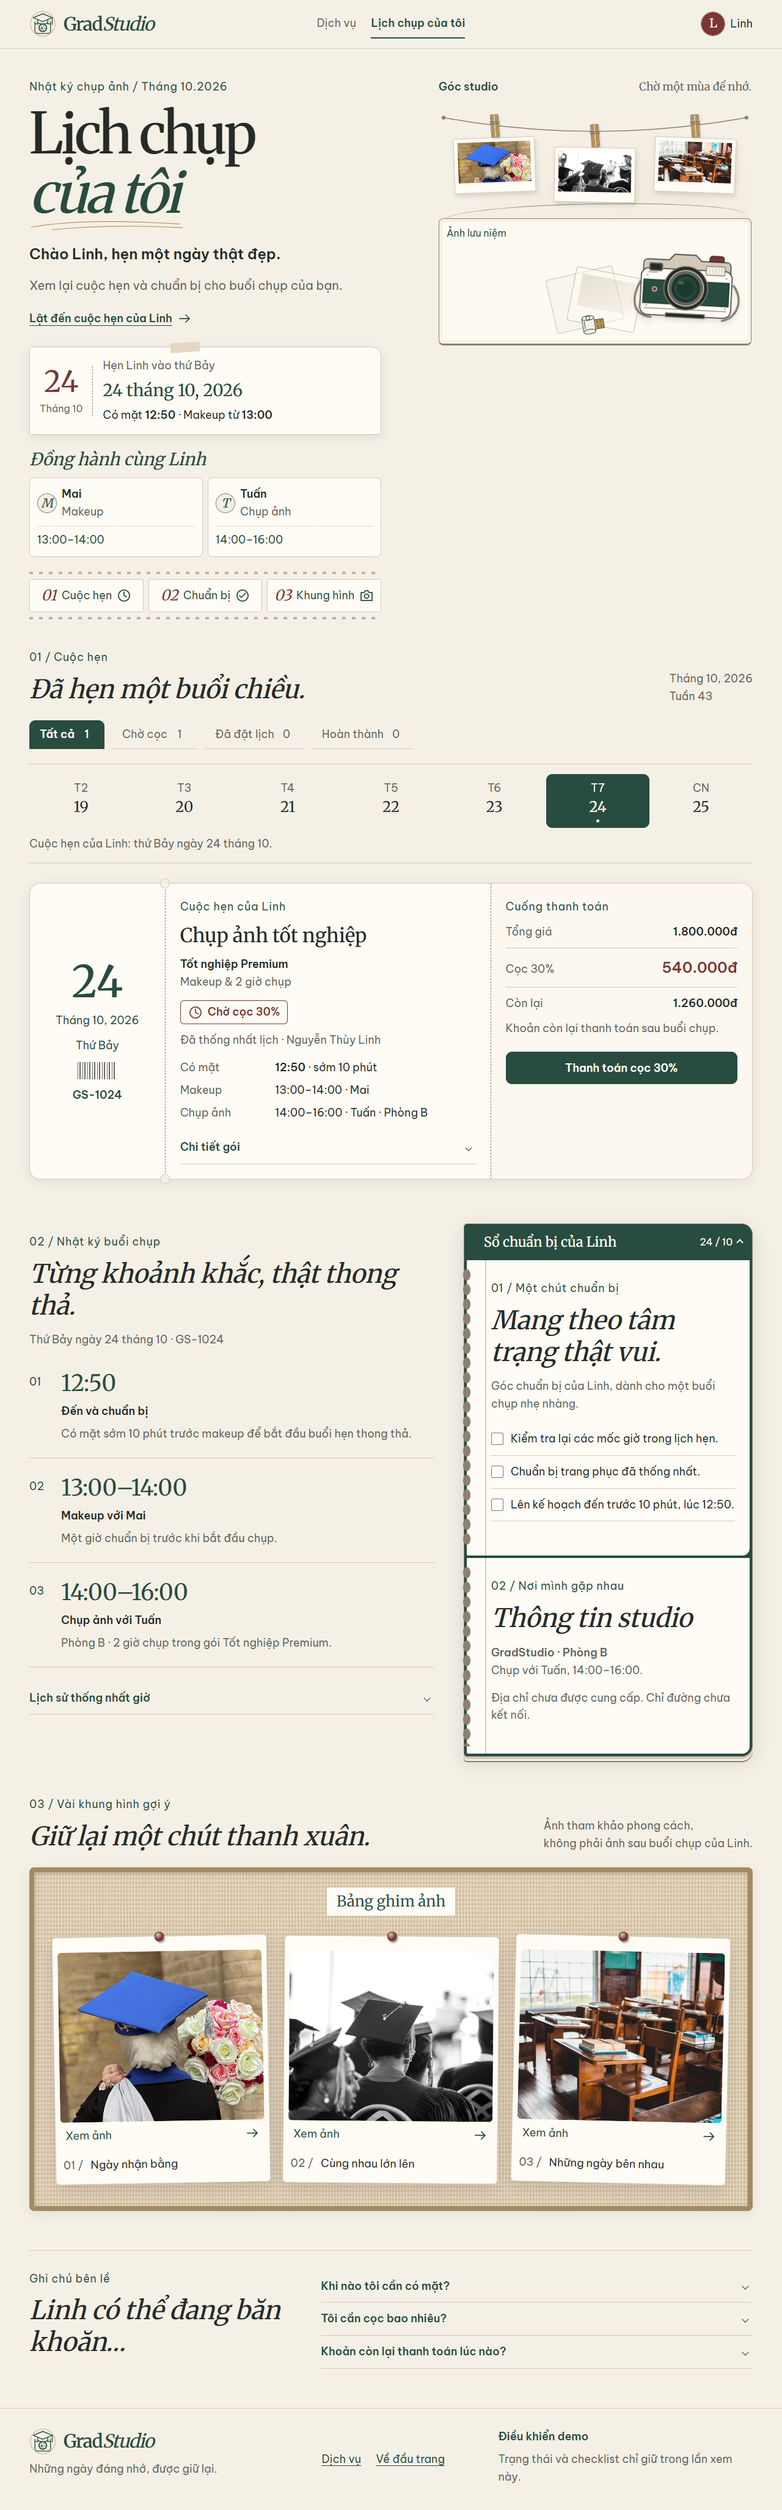
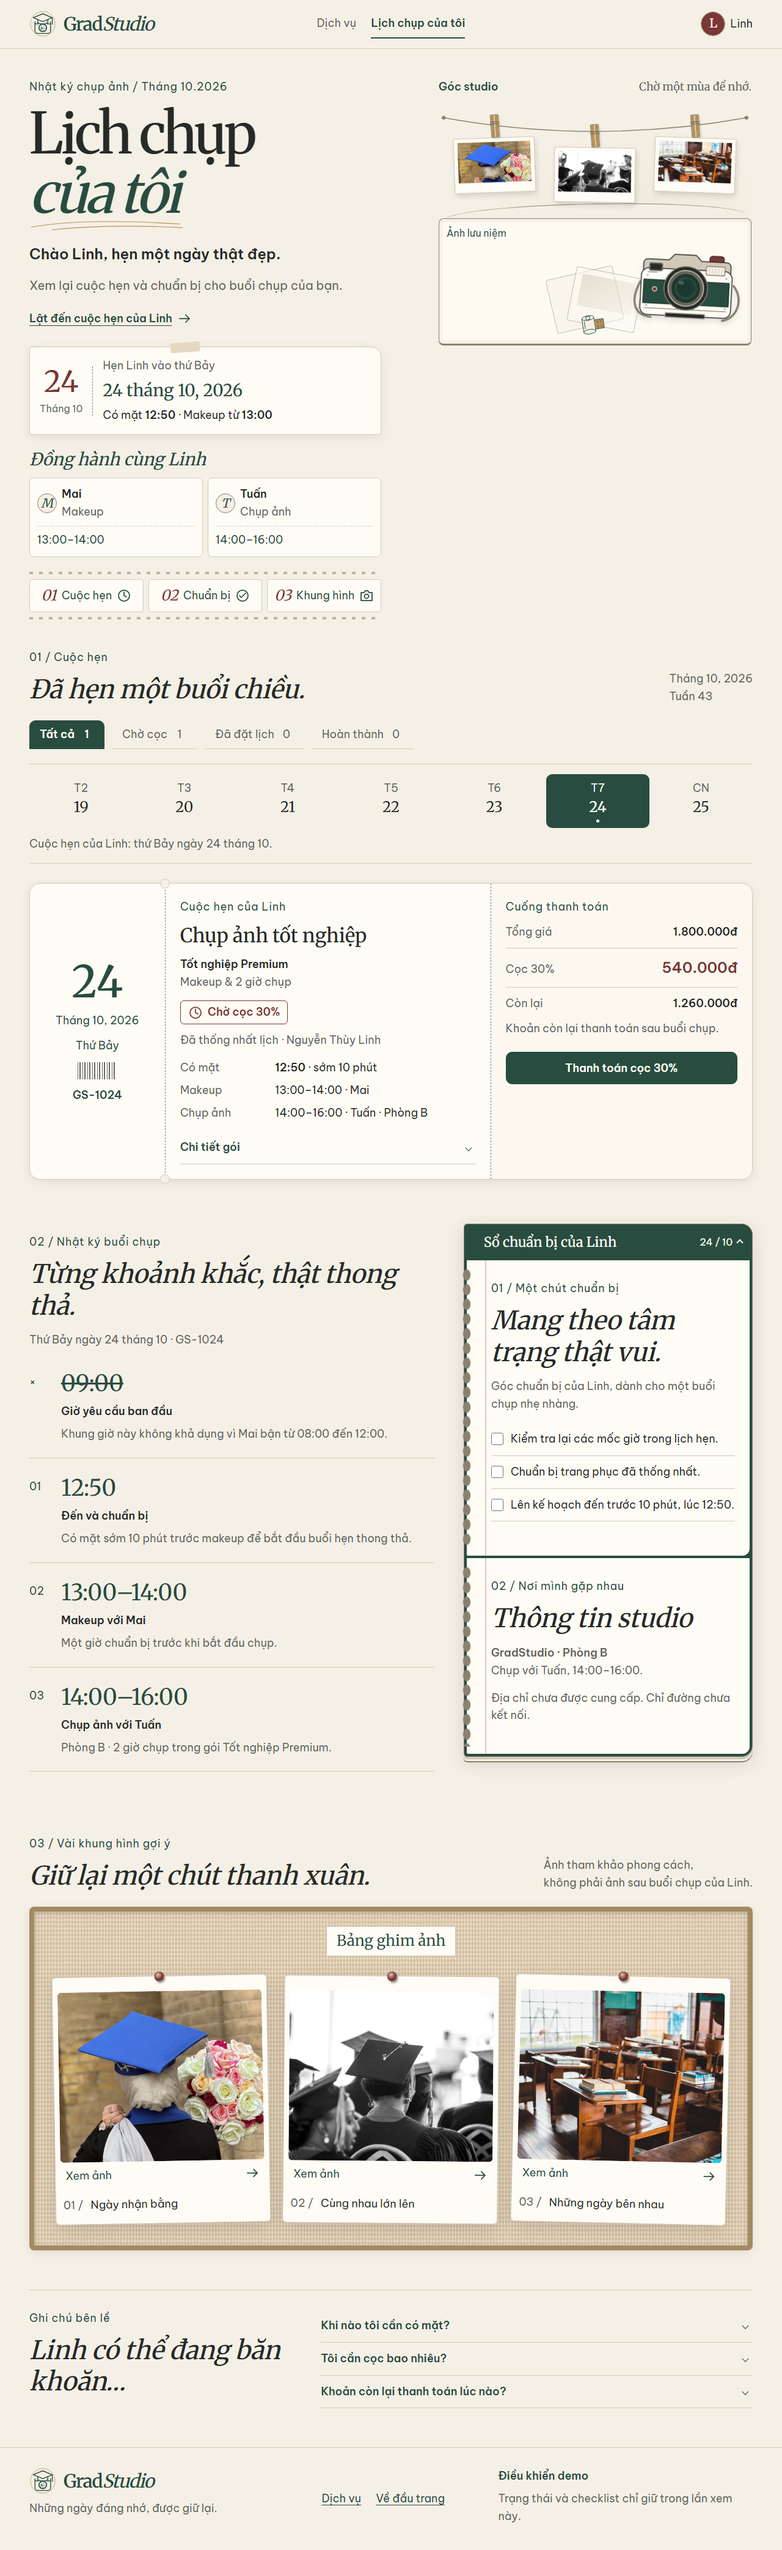
fix(pa02): prevent mobile chat overlap and clarify prices and booking timeline

diff --git a/css/services.css b/css/services.css
@@ -302,7 +302,6 @@
 .services-price { color: var(--color-brand); font-weight: 600; font-size: clamp(1.3rem, 1.1rem + 0.8vw, 1.65rem); }
 .services-price > span { font-weight: 400; font-size: 1rem; margin-inline-start: 3px; }
 .services-small-note { font-size: 1rem; color: var(--color-text-muted); line-height: 1.5; }
-.services-price-note { align-self: center; color: var(--color-text-muted); }
 .services-gallery-section { background: var(--services-soft-fill); padding-block: var(--space-7); border-block: 1px solid var(--color-border); }
 .services-gallery-heading { margin-block-end: 28px; }
 .services-gallery-section [hidden] { display: none; }
@@ -668,16 +667,11 @@
 .services-steps li { display: flex; gap: var(--space-3); align-items: start; }
 .services-steps li > span { font-family: var(--font-heading); color: var(--color-wine); }
 .services-chat-widget {
-  position: fixed;
-  inset-inline-end: max(var(--space-4), env(safe-area-inset-right));
-  inset-block-end: max(var(--space-4), env(safe-area-inset-bottom));
-  z-index: 10;
-  max-inline-size: calc(100% - var(--space-6));
+  margin: var(--space-5) var(--space-4);
   border-radius: var(--radius-card);
   box-shadow: var(--shadow-raised);
 }
 .services-chat-widget[open] {
-  inline-size: 26rem;
   background: var(--color-surface);
 }
 .services-chat-toggle {
@@ -694,21 +688,6 @@
   list-style: none;
 }
 .services-chat-toggle::-webkit-details-marker { display: none; }
-.services-chat-widget:not([open]) .services-chat-toggle {
-  position: relative;
-  display: grid;
-  place-items: center;
-  inline-size: var(--button-min-size);
-  padding: 0;
-}
-.services-chat-widget:not([open]) .services-chat-label {
-  position: absolute;
-  inline-size: 1px;
-  block-size: 1px;
-  overflow: hidden;
-  clip-path: inset(50%);
-  white-space: nowrap;
-}
 .services-chat-widget[open] .services-chat-toggle {
   border-end-start-radius: 0;
   border-end-end-radius: 0;
@@ -724,10 +703,6 @@
 .services-chat-paper {
   display: flex;
   flex-direction: column;
-  max-block-size: min(32rem, calc(100vh - 6rem));
-  max-block-size: min(32rem, calc(100dvh - 6rem));
-  overflow-y: auto;
-  overscroll-behavior: contain;
   background: var(--color-surface);
   border: 1px solid var(--color-border);
   border-end-start-radius: var(--radius-card);
@@ -768,11 +743,36 @@
 .services-chat-form input { flex: 1 1 8rem; }
 .services-chat-form .button { gap: var(--space-2); padding-inline: var(--space-2); }
 .services-chat-form .services-small-note { margin-block-start: var(--space-1); }
-@media (width > 390px) {
+@media (min-width: 48rem) {
+  .services-chat-widget {
+    position: fixed;
+    inset-inline-end: max(var(--space-4), env(safe-area-inset-right));
+    inset-block-end: max(var(--space-4), env(safe-area-inset-bottom));
+    z-index: 10;
+    max-inline-size: calc(100% - var(--space-6));
+    margin: 0;
+  }
   .services-chat-widget[open] { inline-size: 20.5rem; }
+  .services-chat-widget:not([open]) .services-chat-toggle {
+    position: relative;
+    display: grid;
+    place-items: center;
+    inline-size: var(--button-min-size);
+    padding: 0;
+  }
+  .services-chat-widget:not([open]) .services-chat-label {
+    position: absolute;
+    inline-size: 1px;
+    block-size: 1px;
+    overflow: hidden;
+    clip-path: inset(50%);
+    white-space: nowrap;
+  }
   .services-chat-paper {
     block-size: min(25rem, calc(100vh - 6rem));
     block-size: min(25rem, calc(100dvh - 6rem));
+    overflow-y: auto;
+    overscroll-behavior: contain;
   }
 }
 .services-demo-flow { border-block-start: 1px dashed var(--color-control-border); padding-block: var(--space-5); display: flex; flex-wrap: wrap; justify-content: space-between; align-items: center; gap: var(--space-4); }
@@ -787,16 +787,11 @@
     grid-template-columns: repeat(2, minmax(0, 12.5rem));
   }
   .services-gallery-cover-action { display: none; }
-  .services-page { --services-compact-chat-size: 3rem; }
   .services-gallery-controls {
     display: grid;
     grid-template-columns: repeat(2, minmax(0, 7.25rem));
     align-items: stretch;
     gap: var(--space-2);
-    padding-inline: calc(
-      var(--services-compact-chat-size) + var(--space-1) +
-      max(0px, env(safe-area-inset-right, 0px) - var(--space-4))
-    );
   }
   .services-gallery-controls p { grid-row: 1; grid-column: 1 / -1; text-align: center; }
   .services-gallery-controls .button { padding-inline: var(--space-1); }

diff --git a/index.html b/index.html
@@ -163,7 +163,7 @@
               <h3 id="class-photo-title">Kỷ yếu lớp</h3>
               <p>Giữ những gương mặt thân quen trong cùng một khung hình.</p>
               <div class="services-package-action">
-                <p class="services-price-note">Liên hệ tư vấn</p>
+                <p class="services-price"><span>Từ</span> 350.000đ <span>/ người</span></p>
                 <a class="button button--secondary" href="#chat" data-package="Kỷ yếu lớp">Tư vấn gói này <svg class="services-icon" aria-hidden="true"><use href="#arrow"/></svg></a>
               </div>
             </div>
@@ -175,7 +175,7 @@
               <h3 id="portrait-title">Chân dung / CV</h3>
               <p>Một bức ảnh gọn gàng để bắt đầu chương tiếp theo của bạn.</p>
               <div class="services-package-action">
-                <p class="services-price-note">Liên hệ tư vấn</p>
+                <p class="services-price"><span>Từ</span> 690.000đ</p>
                 <a class="button button--secondary" href="#chat" data-package="Chân dung / CV">Tư vấn gói này <svg class="services-icon" aria-hidden="true"><use href="#arrow"/></svg></a>
               </div>
             </div>
@@ -526,26 +526,6 @@
 
   </main>
 
-  <footer class="services-footer">
-    <div class="container services-footer-inner">
-      <div>
-        <a class="services-brand" href="index.html"><svg aria-hidden="true"><use href="#brand"/></svg><span>Grad<span>Studio</span></span></a>
-        <p>Những ngày đáng nhớ, được giữ lại.</p>
-      </div>
-      <nav aria-label="Điều hướng cuối trang">
-        <a href="#packages">Gói chụp</a>
-        <a href="#chat">Chat với studio</a>
-        <a href="my-appointments.html">Lịch chụp của tôi</a>
-      </nav>
-    </div>
-    <aside class="container services-demo-flow" aria-labelledby="demo-title">
-      <div>
-        <p class="services-kicker" id="demo-title">Tiếp tục câu chuyện mẫu</p>
-        <p>Linh đã hỏi lịch. Xem studio tiếp nhận và kiểm tra giờ chụp.</p>
-      </div>
-      <a class="button button--secondary" href="admin-scheduling.html">Nhân viên studio: Mở hội thoại</a>
-    </aside>
-  </footer>
   <details class="services-chat-widget" id="studio-chat">
     <summary class="services-chat-toggle" id="chat-toggle">
       <svg class="services-icon" aria-hidden="true"><use href="#chat-icon"/></svg>
@@ -585,5 +565,26 @@
       </div>
     </section>
   </details>
+
+  <footer class="services-footer">
+    <div class="container services-footer-inner">
+      <div>
+        <a class="services-brand" href="index.html"><svg aria-hidden="true"><use href="#brand"/></svg><span>Grad<span>Studio</span></span></a>
+        <p>Những ngày đáng nhớ, được giữ lại.</p>
+      </div>
+      <nav aria-label="Điều hướng cuối trang">
+        <a href="#packages">Gói chụp</a>
+        <a href="#chat">Chat với studio</a>
+        <a href="my-appointments.html">Lịch chụp của tôi</a>
+      </nav>
+    </div>
+    <aside class="container services-demo-flow" aria-labelledby="demo-title">
+      <div>
+        <p class="services-kicker" id="demo-title">Tiếp tục câu chuyện mẫu</p>
+        <p>Linh đã hỏi lịch. Xem studio tiếp nhận và kiểm tra giờ chụp.</p>
+      </div>
+      <a class="button button--secondary" href="admin-scheduling.html">Nhân viên studio: Mở hội thoại</a>
+    </aside>
+  </footer>
 </body>
 </html>

diff --git a/my-appointments.html b/my-appointments.html
@@ -324,11 +324,11 @@
           <section class="appointments-journal" id="ap-journal" aria-labelledby="ap-journal-title">
             <p class="appointments-kicker">02 / Nhật ký buổi chụp</p><h2 id="ap-journal-title">Từng khoảnh khắc, thật thong thả.</h2><p class="appointments-journal-date">Thứ Bảy ngày 24 tháng 10 · GS-1024</p>
             <ol class="appointments-journal-list">
+              <li><span class="appointments-step" aria-hidden="true">×</span><div><p class="appointments-journal-time"><del><time datetime="2026-10-24T09:00">09:00</time></del></p><h3>Giờ yêu cầu ban đầu</h3><p>Khung giờ này không khả dụng vì Mai bận từ 08:00 đến 12:00.</p></div></li>
               <li><span class="appointments-step" aria-hidden="true">01</span><div><p class="appointments-journal-time"><time datetime="2026-10-24T12:50">12:50</time></p><h3>Đến và chuẩn bị</h3><p>Có mặt sớm 10 phút trước makeup để bắt đầu buổi hẹn thong thả.</p></div></li>
               <li><span class="appointments-step" aria-hidden="true">02</span><div><p class="appointments-journal-time"><time datetime="2026-10-24T13:00">13:00</time>–<time datetime="2026-10-24T14:00">14:00</time></p><h3>Makeup với Mai</h3><p>Một giờ chuẩn bị trước khi bắt đầu chụp.</p></div></li>
               <li><span class="appointments-step" aria-hidden="true">03</span><div><p class="appointments-journal-time"><time datetime="2026-10-24T14:00">14:00</time>–<time datetime="2026-10-24T16:00">16:00</time></p><h3>Chụp ảnh với Tuấn</h3><p>Phòng B · 2 giờ chụp trong gói Tốt nghiệp Premium.</p></div></li>
             </ol>
-            <details class="appointments-details" id="ap-history" data-ap-detail><summary>Lịch sử thống nhất giờ</summary><div><p>Yêu cầu ban đầu <del>09:00</del> không khả dụng vì Mai đã bận 08:00–12:00.</p><p>Linh và studio đã thống nhất makeup 13:00–14:00, chụp 14:00–16:00. Đây là các mốc đang áp dụng cho GS-1024.</p></div></details>
           </section>
           <aside class="appointments-preparation" id="ap-preparation" aria-labelledby="ap-notebook-label">
             <details class="appointments-notebook" id="ap-notebook" open>

diff --git a/js/services.js b/js/services.js
@@ -404,7 +404,7 @@
       event.preventDefault();
       if (link.dataset.package) packageName.textContent = link.dataset.package;
       chat.open = true;
-      toggle.focus({ preventScroll: true });
+      toggle.focus({ preventScroll: getComputedStyle(chat).position === 'fixed' });
     });
   });
 

diff --git a/SELF_ASSESSMENT_REPORT.md b/SELF_ASSESSMENT_REPORT.md
@@ -9,8 +9,8 @@ Total I claim: 100 / 100
 | Criterion | Max | I claim | Evidence |
 |---|---:|---:|---|
 | Three linked screens that trace back to PA#1 | 20 | 20 | **Chạy mới, JS tắt.** Mở `file://`, dùng Enter từ `index.html` qua link chuyển vai ở chân trang tới `admin-scheduling.html`, rồi tới `my-appointments.html`. Đã thử link quay về Dịch vụ và ba link đi thẳng sang Lịch chụp từ Dịch vụ. `PROTOTYPE.md` mục Screens đối chiếu `docs/pa1/01-customer-services-chat.png` với khách hỏi giờ 09:00, `02-admin-scheduling.png` với xử lý lịch Mai bận và tạo GS-1024, `03-customer-appointment.png` với vé Chờ cọc 540.000đ. Mục Changed since PA#1 ghi các thay đổi và lý do. Mục Not wired yet ghi dữ liệu demo riêng từng trang. Mức 20/20 giả định người chấm chấp nhận bộ ảnh nguồn GradStudio để đối chiếu PA#1. |
-| Responsive at 360, 768 and 1280 px | 25 | 25 | **Chạy lại, JS tắt.** Edge 157.0.4341.46 reload `file://` ở 360, 768 và 1280 px, viewport cao 900 CSS px, DPR 1. Cả ba trang có `clientWidth/scrollWidth` lần lượt 360/360, 768/768 và 1280/1280, không có phần tử hiển thị vượt mép phải. Nút, link đứng riêng và `summary` cao tối thiểu 44 px ở 360. Tên dài thử nghiệm xuống dòng, ảnh tải và nằm trong khung. Sau khi sửa `css/services.css`, “GradStudio” và “Linh” ở header đều nằm trên một dòng tại 768 px. **Minh chứng đã lưu.** Mục [Sửa header, focus và chốt bộ ảnh nộp](AI-LOG.md#2026-11-11---sửa-header-focus-và-chốt-bộ-ảnh-nộp) ghi cách chụp khi JS tắt và dẫn đủ chín ảnh hiện hành. Lượt kiểm trước ghi zoom Edge 200% cho cả ba trang ở 640 CSS px, không cuộn ngang. |
-| Semantic, valid HTML | 20 | 20 | **Chạy mới.** Cây Accessibility xác nhận `banner`, `navigation`, `main` và `contentinfo` trên cả ba trang. Mỗi trang có một `h1` và không nhảy cấp heading. Có label cho 1, 12 và 7 trường nhập tương ứng. Nhãn ô chat hiện khi mở khung. Toàn bộ ảnh có `alt`, gồm `alt=""` cho ảnh trang trí. Nút hành động có `type`, điều hướng dùng `a href` tương đối. **Minh chứng đã lưu.** Ba tệp `checks/validator-index.txt`, `checks/validator-admin-scheduling.txt` và `checks/validator-my-appointments.txt` ghi W3C Nu 26.11.10 ngày 11/11/2026, mỗi trang 0 lỗi và 0 cảnh báo. Đối chiếu toàn bộ SHA-256 với byte HTML hiện tại và cả hai cách xuống dòng LF/CRLF. Mã của ba tệp hiện tại lần lượt bắt đầu bằng `2935d95c9057`, `86341c929634` và `2b723f2ee631`. |
+| Responsive at 360, 768 and 1280 px | 25 | 25 | **Chạy lại, JS tắt.** Edge 157.0.4341.46 reload `file://` ở 360, 768 và 1280 px, viewport cao 900 CSS px, DPR 1. Cả ba trang có `clientWidth/scrollWidth` lần lượt 360/360, 768/768 và 1280/1280, không có phần tử hiển thị vượt mép phải. Nút, link đứng riêng và `summary` cao tối thiểu 44 px ở 360. Tên dài thử nghiệm xuống dòng, ảnh tải và nằm trong khung. Sau khi sửa `css/services.css`, “GradStudio” và “Linh” ở header đều nằm trên một dòng tại 768 px. **Minh chứng đã lưu.** Mục [Sửa header, focus và chốt bộ ảnh nộp](AI-LOG.md#2026-11-11---sửa-header-focus-và-chốt-bộ-ảnh-nộp) ghi cách chụp khi JS tắt và dẫn đủ chín ảnh hiện hành. Lượt kiểm Chrome sau đó xác nhận khung chat mở ở 360 px không che nút Xem gói chụp khi bật hoặc tắt JS. Ảnh index-360.png đã chụp lại khi tắt JS. Lượt kiểm trước ghi zoom Edge 200% cho cả ba trang ở 640 CSS px, không cuộn ngang. |
+| Semantic, valid HTML | 20 | 20 | **Chạy mới.** Cây Accessibility xác nhận `banner`, `navigation`, `main` và `contentinfo` trên cả ba trang. Mỗi trang có một `h1` và không nhảy cấp heading. Có label cho 1, 12 và 7 trường nhập tương ứng. Nhãn ô chat hiện khi mở khung. Toàn bộ ảnh có `alt`, gồm `alt=""` cho ảnh trang trí. Nút hành động có `type`, điều hướng dùng `a href` tương đối. **Minh chứng đã lưu.** Ba tệp `checks/validator-index.txt`, `checks/validator-admin-scheduling.txt` và `checks/validator-my-appointments.txt` ghi W3C Nu 26.11.10 ngày 11/11/2026, mỗi trang 0 lỗi và 0 cảnh báo. Đối chiếu toàn bộ SHA-256 với byte HTML hiện tại và cả hai cách xuống dòng LF/CRLF. Mã của ba tệp hiện tại lần lượt bắt đầu bằng `68bf7f132b8e`, `86341c929634` và `2b723f2ee631`. |
 | Design you can check | 10 | 10 | Ba trang nạp `css/common.css` trước CSS riêng, dùng HTML/CSS/JS thuần và tài nguyên cục bộ. Thang chung là 4/8/12/16/24/32/48/64/96 px với mốc bố cục chính `48rem` và `64rem`. Lề trên chân trang Dịch vụ dùng `--space-5` (24 px). Rà bốn tệp CSS không thấy `!important` hoặc `overflow-x: hidden`. Chữ nội dung đo từ 16 px và cây font xác nhận Merriweather, Be Vietnam Pro cục bộ. **Đo lại.** Chữ mô tả trên poster và 12 mẫu video đạt từ 5,11:1. Nút xem gói và nút cọc đạt 9,33:1 trong lượt đo trước. Điểm nhấn là hero và nút xem gói, hội thoại Linh cạnh khu booking, và vé GS-1024. Link bỏ qua ở Lịch chụp hiện ngay khi Tab tại cả ba độ rộng. **Kiểm tra riêng, JS bật.** Chat khách vẫn khóa gửi. Admin tạo GS-1024 Chờ cọc trong phiên. Escape giữ Chờ cọc và trả focus, xác nhận cọc mô phỏng đổi sang Đã đặt lịch. Góc studio là mô phỏng với ảnh cục bộ. Kết quả kéo, hủy kéo và in phiếu nằm trong `AI-LOG.md` mục Nghiệm thu ba trang từ thư mục. |
 | The brief and the rules file | 10 | 10 | `brief.md` lưu prompt thực tế theo thứ tự, gồm “Rà checklist màn 1 và chuẩn bị tài nguyên PA02” ngày 08/11 yêu cầu khóa gửi tin, “Cho phép JavaScript và chỉnh bố cục màn 2” ngày 06/11 yêu cầu vùng cuộn riêng, và “Dựng màn Lịch chụp ban đầu” ngày 05/11 giao ảnh PA#1, ba độ rộng và HTML semantic. Mục 11/11 ghi lượt sửa và cách nghiệm thu theo rubric. `AGENTS.md` §2 quy định HTML/CSS thuần và dữ liệu tĩnh. §§5–7 ghi label, link tương đối, mobile first, W3C và lưu minh chứng. |
 | AI-LOG.md | 10 | 10 | [Nhật ký Vinh ngày 08/11](AI-LOG.md#2026-11-08---rà-checklist-màn-1-và-chuẩn-bị-tài-nguyên-pa02) ghi Chrome phát hiện nút Gửi mẫu còn hoạt động, sau đó khóa gửi và thử lại khi bật/tắt JS. Mục Nguyên ngày 06/11 ghi phát hiện chữ “Gửi” xuống dòng và hai link thấp hơn 44 px qua ảnh và phép đo. Mục Tân ngày 07/11 dẫn ảnh cho thấy ảnh lưu niệm còn nằm ngang khi cầm góc và commit `35a2f0b` ghi phần xử lý. Các mục dùng ngày YYYY-MM-DD và năm nhãn `Tool:`, `Asked for:`, `Kept:`, `Changed:`, `Rejected:`. Mục [Sửa header, focus và chốt bộ ảnh nộp](AI-LOG.md#2026-11-11---sửa-header-focus-và-chốt-bộ-ảnh-nộp) ghi kết quả tái hiện và kiểm lại sau sửa. |

diff --git a/PROTOTYPE.md b/PROTOTYPE.md
@@ -37,8 +37,9 @@ cho phép dùng bộ ảnh GradStudio để đối chiếu PA#1 chưa có trong 
 - **Dịch vụ.** Nhóm thiết kế lại hero, xếp gói chụp và ảnh thành thẻ và
   album theo hướng nhật ký ảnh phim. Khung chat có bản xem trước trong
   luồng đọc và mở được bằng `details/summary` để dùng bằng bàn phím khi
-  tắt JS. Khung khởi đầu thu gọn để phần giới thiệu luôn đọc được khi
-  mở trang. Nút gửi tin ở màn khách bị khóa theo brief. Ở 360 px, ảnh hero
+  tắt JS. Dưới 48rem, khung mở trong luồng trang trước chân trang. Từ
+  48rem, khung mở ở góc dưới bên phải. Nút gửi tin ở màn khách bị khóa
+  theo brief. Ở 360 px, ảnh hero
   nằm dưới chữ và các gói xếp dọc. Ở desktop, ảnh xem nhanh nằm cạnh các gói.
 - **Admin.** Form từng nằm dưới hội thoại trong ảnh nguồn được chuyển
   xuống dưới lịch ở cột phải để dành cột giữa cho cuộc tư vấn. Bảng lịch
@@ -81,7 +82,7 @@ CSS từng trang. Màu, font Merriweather và Be Vietnam Pro, thang khoảng cá
 đạo cụ dùng kích thước riêng cho hình học của thành phần.
 
 Bố cục mobile first. Hai mốc chính là 48rem và 64rem. CSS từng màn có
-điều kiện bổ sung cho chat nổi, vùng cuộn Admin ở cửa sổ thấp, dải ngày
+điều kiện bổ sung cho vị trí khung chat, vùng cuộn Admin ở cửa sổ thấp, dải ngày
 và góc studio. Minh chứng cuối nằm trong [screenshots](screenshots/) và
 [checks](checks/).
 

diff --git a/AI-LOG.md b/AI-LOG.md
@@ -724,3 +724,20 @@ Lịch sử Git cục bộ chưa có commit xác định người thực hiện 
 
 - **Rejected:** Giữ đường dẫn tới thư mục minh chứng trước đổi
   thiết kế làm đích liên kết của bản nộp.
+
+### 2026-11-11 - Sửa khung chat che nội dung ở 360 px
+
+- **Tool:** Codex, Chrome qua Playwright và W3C Nu.
+- **Asked for:** Sửa lỗi chat che nội dung ở 360 px và cập nhật các tệp
+  liên quan trong repo. [Prompt của lượt này](brief.md).
+- **Kept:** Liên kết `#chat`, hội thoại mẫu, nút gửi bị khóa và khung chat
+  nổi từ 48rem.
+- **Changed:** Đặt khung chat trước chân trang và cho khung mở trong luồng
+  trang dưới 48rem. Khi bật JS, liên kết đưa focus tới khung và giữ đúng
+  ngữ cảnh gói. Ở 360 px khi tắt JS, đo vùng chồng lên “Xem gói chụp”
+  giảm từ 8.394 px² xuống 0. Thử mở bằng bàn phím ở 360, 768, 1280 px
+  khi bật và tắt JS. Cả ba độ rộng không cuộn ngang. Kiểm tra đóng bằng
+  Escape và trả focus khi bật JS. Cập nhật [ảnh toàn trang 360 px](screenshots/index-360.png)
+  và [kết quả W3C của index.html](checks/validator-index.txt).
+- **Rejected:** Giữ khung chat cố định trên màn nhỏ vì khung mở che nút
+  xem gói. Kiểm tra zoom 200% thực tế và thiết bị thật **NOT RUN**.
